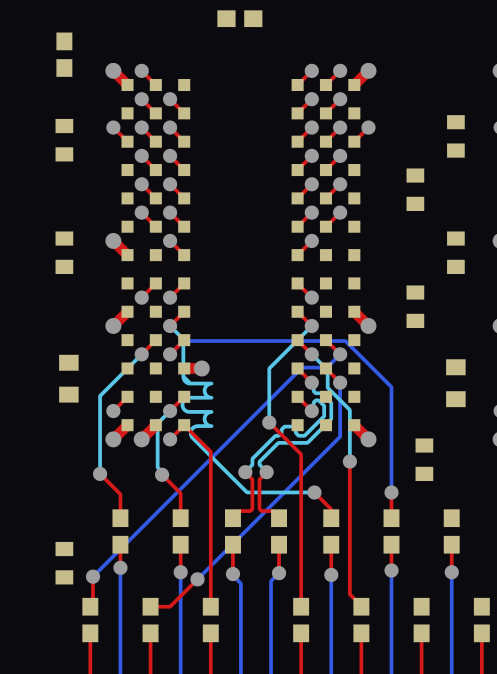
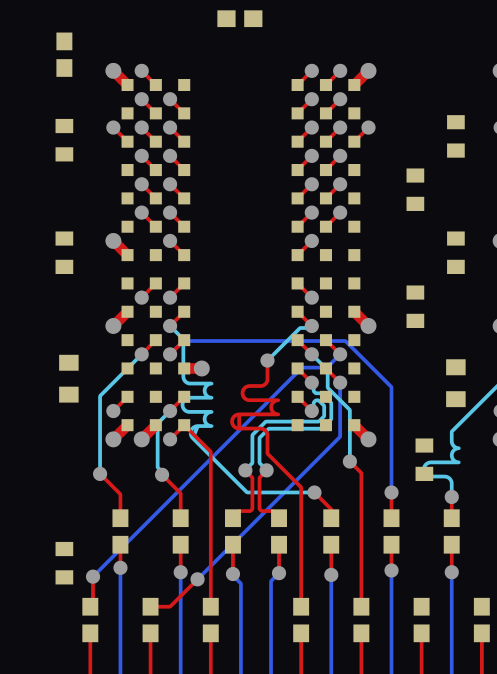
README: add rendered board screenshots

diff --git a/README.md b/README.md
@@ -2,6 +2,17 @@
 
 A custom 288-pin DDR4 unbuffered DIMM with hard-gold edge fingers, designed in Altium Designer. It follows the JEDEC reference design **Raw Card A3**.
 
+![Whole module, top view](docs/images/board_top.png)
+
+*Top view rendered straight from the PcbDoc by [tools/render_board.py](tools/render_board.py) — board outline, copper on L1 (red), L3 (cyan) and L8 (blue), vias, pads and silkscreen. Nothing is drawn by hand.*
+
+| Byte 0 escaping U1 | Gold fingers and the series resistors |
+|---|---|
+| ![U1 byte 0](docs/images/u1_byte0.png) | ![Edge fingers](docs/images/fingers.png) |
+| 11 data lines out of the 0.8 mm-pitch BGA, layer changes at the fan-out vias, rounded serpentines for length matching | 288 hard-gold contacts with the off-centre key, and the 15 Ω series resistor rows above them |
+
+Regenerate any view: `py -3.11 tools/render_board.py "<board>.PcbDoc" out.png --box x1,y1,x2,y2 --dpi 900`
+
 ## Specification
 
 | Item | Value |
